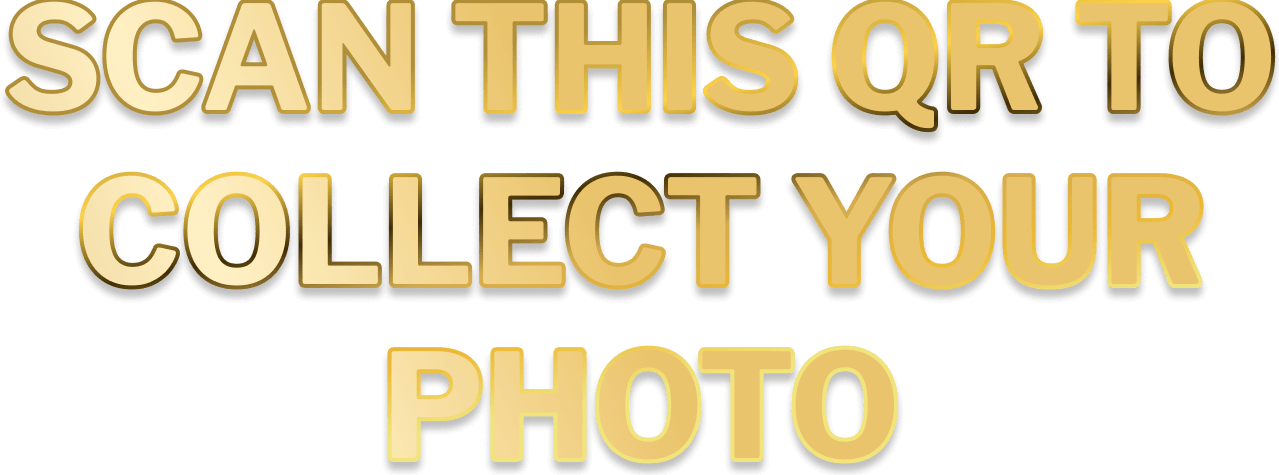
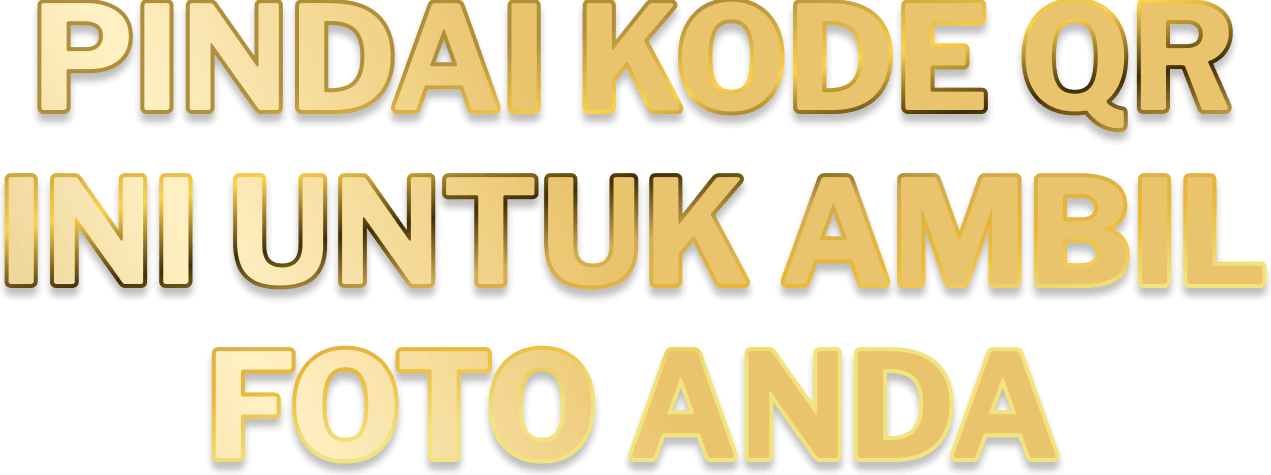
upd bahasa

diff --git a/app/female/page.js b/app/female/page.js
@@ -179,14 +179,14 @@ export default function GenerateAmero() {
         <main className="flex fixed h-full w-full bg overflow-auto flex-col justify-center items-center py-16 px-20" onContextMenu={(e)=> e.preventDefault()}>
             {numProses1 && 
                 <div className='absolute top-0 left-0 right-0 bottom-0 flex items-center justify-center flex-col'>
-                    <div className='relative w-[60%] overflow-hidden'>
+                    {/* <div className='relative w-[60%] overflow-hidden'>
                         <div className='relative w-full'>
                             <Image src='/title-front.png' width={773} height={158} alt='Zirolu' className='w-full' priority />
                         </div>
-                    </div>
+                    </div> */}
                     <div className='animate-upDownCepet relative p-8 mt-14 mb-10 text-4xl border-2 border-[#b1454a] text-center bg-[#EAC46D] text-[#000] font-bold rounded-lg'>
-                        <p>{`Please wait, loading...`}</p>
-                        <p>{`Process : ${(elapsedTime / 1000).toFixed(2)} seconds (${numProses} of 2)`}</p>
+                        <p>{`Mohon tunggu...`}</p>
+                        <p>{`AI memproses : ${(elapsedTime / 1000).toFixed(2)} detik (${numProses} dari 2)`}</p>
                         {error}
                     </div>
 
@@ -201,15 +201,15 @@ export default function GenerateAmero() {
             }
             {/* LOADING */}
             {/* PILIH STYLE */}
-            <div className={`fixed top-24 w-[60%] ${numProses1 ? 'opacity-0 pointer-events-none' : ''}`}>
+            {/* <div className={`fixed top-24 w-[60%] ${numProses1 ? 'opacity-0 pointer-events-none' : ''}`}>
                 <Image src='/title-select.png' width={686} height={112} alt='Zirolu' className='w-full' priority />
-            </div>
+            </div> */}
             <div className={`relative w-full ${numProses1 ? 'opacity-0 pointer-events-none' : ''}`}>
                 <div className='relative mt-[-12vh] w-full'>
                     <div className='relative w-full hiddenx'>
-                        {/* <div className='relative w-[60%] mb-12 mx-auto'>
+                        <div className='relative w-[60%] mb-12 mx-auto'>
                             <Image src='/title-identity.png' width={542} height={119} alt='Zirolu' className='w-full' priority />
-                        </div> */}
+                        </div>
                         <div className='w-[72%] mx-auto'>
                             {/* GENDER FIX */}
                             <ul className='choose mod6'>
@@ -277,7 +277,7 @@ export default function GenerateAmero() {
                 <div className={`fixed left-0 bottom-14 w-full`}>
                     <div className="relative w-[80%] mx-auto flex justify-center items-center flex-col">
                         <button className={`w-full relative mx-auto flex justify-center items-center ${!styleGender ? 'hidden' : ''}`} onClick={generateAI}>
-                            <Image src='/btn-suprise.png' width={830} height={192} alt='Zirolu' className='w-full' priority />
+                            <Image src='/btn-continue.png' width={830} height={192} alt='Zirolu' className='w-full' priority />
                         </button>
                         <Link href='' className="relative w-full mx-auto flex justify-center items-center">
                             <Image src='/btn-back.png' width={772} height={135} alt='Zirolu' className='w-full' priority />

diff --git a/app/generate/page.js b/app/generate/page.js
@@ -181,14 +181,14 @@ export default function GenerateAmero() {
         <main className="flex fixed h-full w-full bg overflow-auto flex-col justify-center items-center py-16 px-20" onContextMenu={(e)=> e.preventDefault()}>
             {numProses1 && 
                 <div className='absolute top-0 left-0 right-0 bottom-0 flex items-center justify-center flex-col'>
-                    <div className='relative w-[60%] overflow-hidden'>
+                    {/* <div className='relative w-[60%] overflow-hidden'>
                         <div className='relative w-full'>
                             <Image src='/title-front.png' width={773} height={158} alt='Zirolu' className='w-full' priority />
                         </div>
-                    </div>
+                    </div> */}
                     <div className='animate-upDownCepet relative p-8 mt-14 mb-10 text-4xl border-2 border-[#b1454a] text-center bg-[#EAC46D] text-[#000] font-bold rounded-lg'>
-                        <p>{`Please wait, loading...`}</p>
-                        <p>{`Process : ${(elapsedTime / 1000).toFixed(2)} seconds (${numProses} of 2)`}</p>
+                        <p>{`Mohon tunggu...`}</p>
+                        <p>{`AI memproses : ${(elapsedTime / 1000).toFixed(2)} detik (${numProses} dari 2)`}</p>
                         {error}
                     </div>
 
@@ -203,9 +203,9 @@ export default function GenerateAmero() {
             }
             {/* LOADING */}
             {/* PILIH STYLE */}
-            <div className={`fixed top-24 w-[60%] ${numProses1 ? 'opacity-0 pointer-events-none' : ''}`}>
+            {/* <div className={`fixed top-24 w-[60%] ${numProses1 ? 'opacity-0 pointer-events-none' : ''}`}>
                 <Image src='/title-select.png' width={686} height={112} alt='Zirolu' className='w-full' priority />
-            </div>
+            </div> */}
             <div className={`relative w-full ${numProses1 ? 'opacity-0 pointer-events-none' : ''}`}>
                 <div className='relative mt-[-12vh] w-full'>
                     <div className='relative w-full hiddenx'>
@@ -279,7 +279,7 @@ export default function GenerateAmero() {
                 <div className={`fixed left-0 bottom-14 w-full`}>
                     <div className="relative w-[80%] mx-auto flex justify-center items-center flex-col">
                         <button className={`w-full relative mx-auto flex justify-center items-center ${!styleGender ? 'hidden' : ''}`} onClick={generateAI}>
-                            <Image src='/btn-suprise.png' width={830} height={192} alt='Zirolu' className='w-full' priority />
+                            <Image src='/btn-continue.png' width={830} height={192} alt='Zirolu' className='w-full' priority />
                         </button>
                         <Link href='' className="relative w-full mx-auto flex justify-center items-center">
                             <Image src='/btn-back.png' width={772} height={135} alt='Zirolu' className='w-full' priority />
